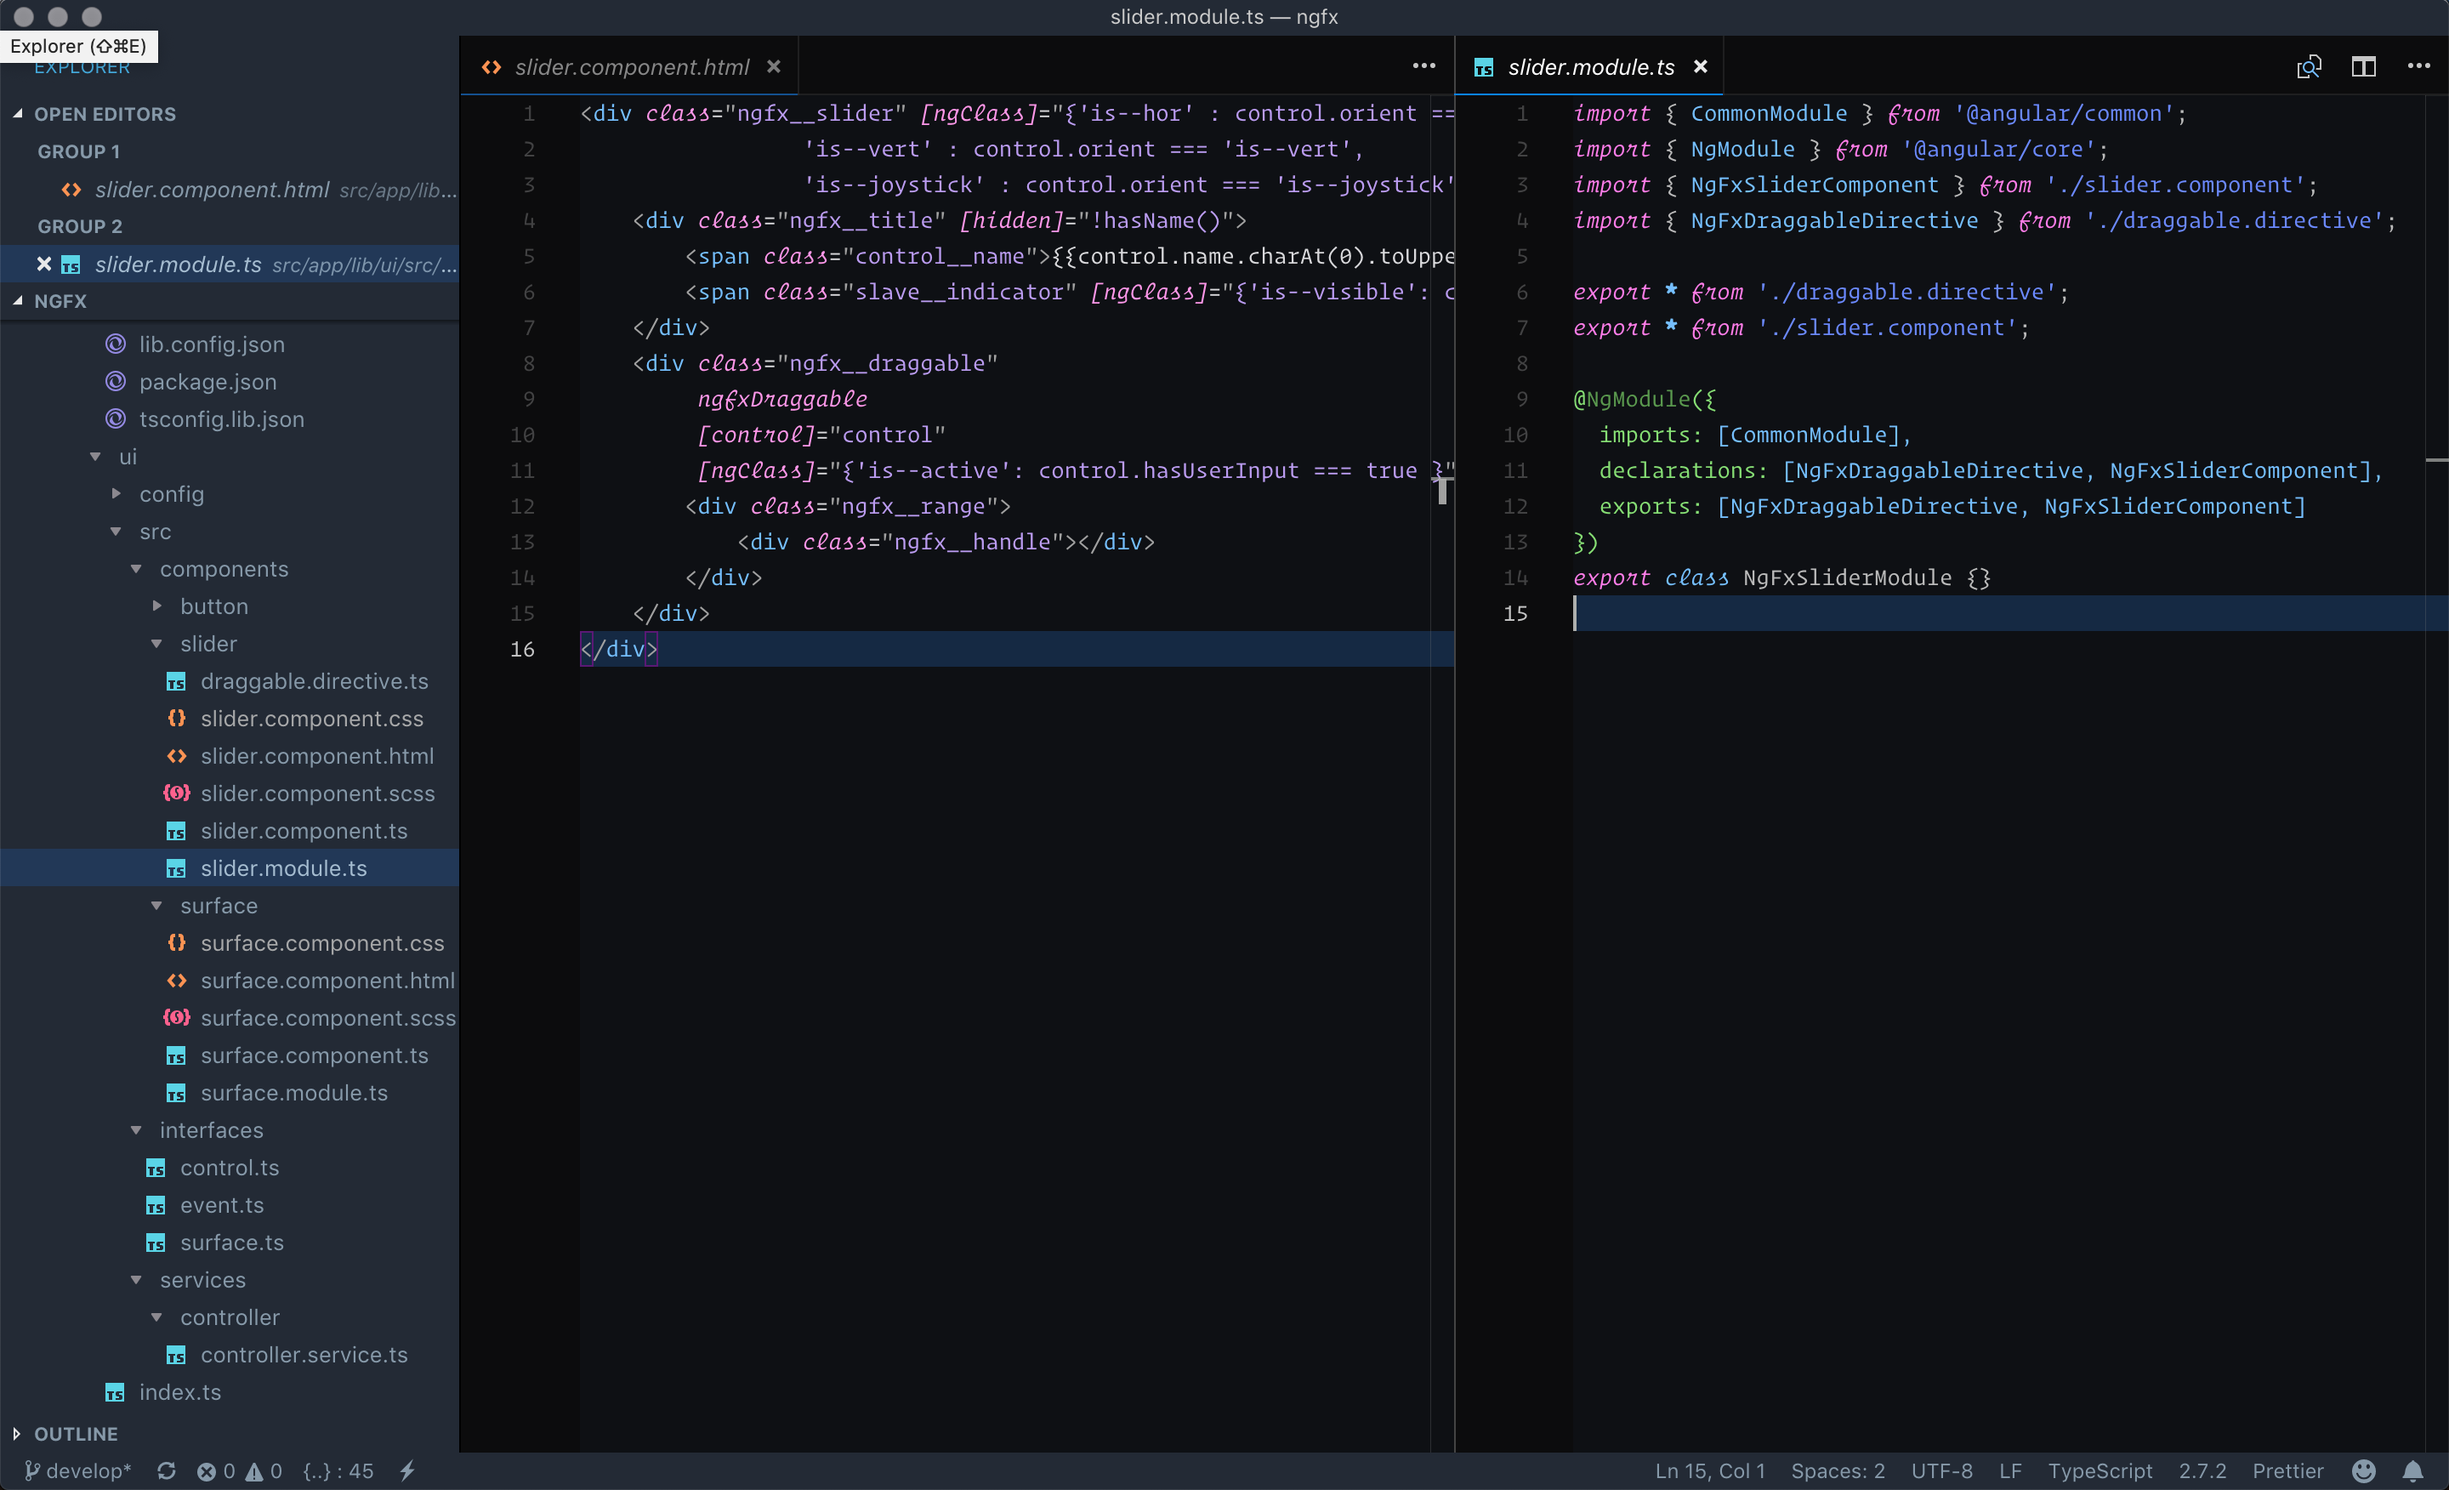
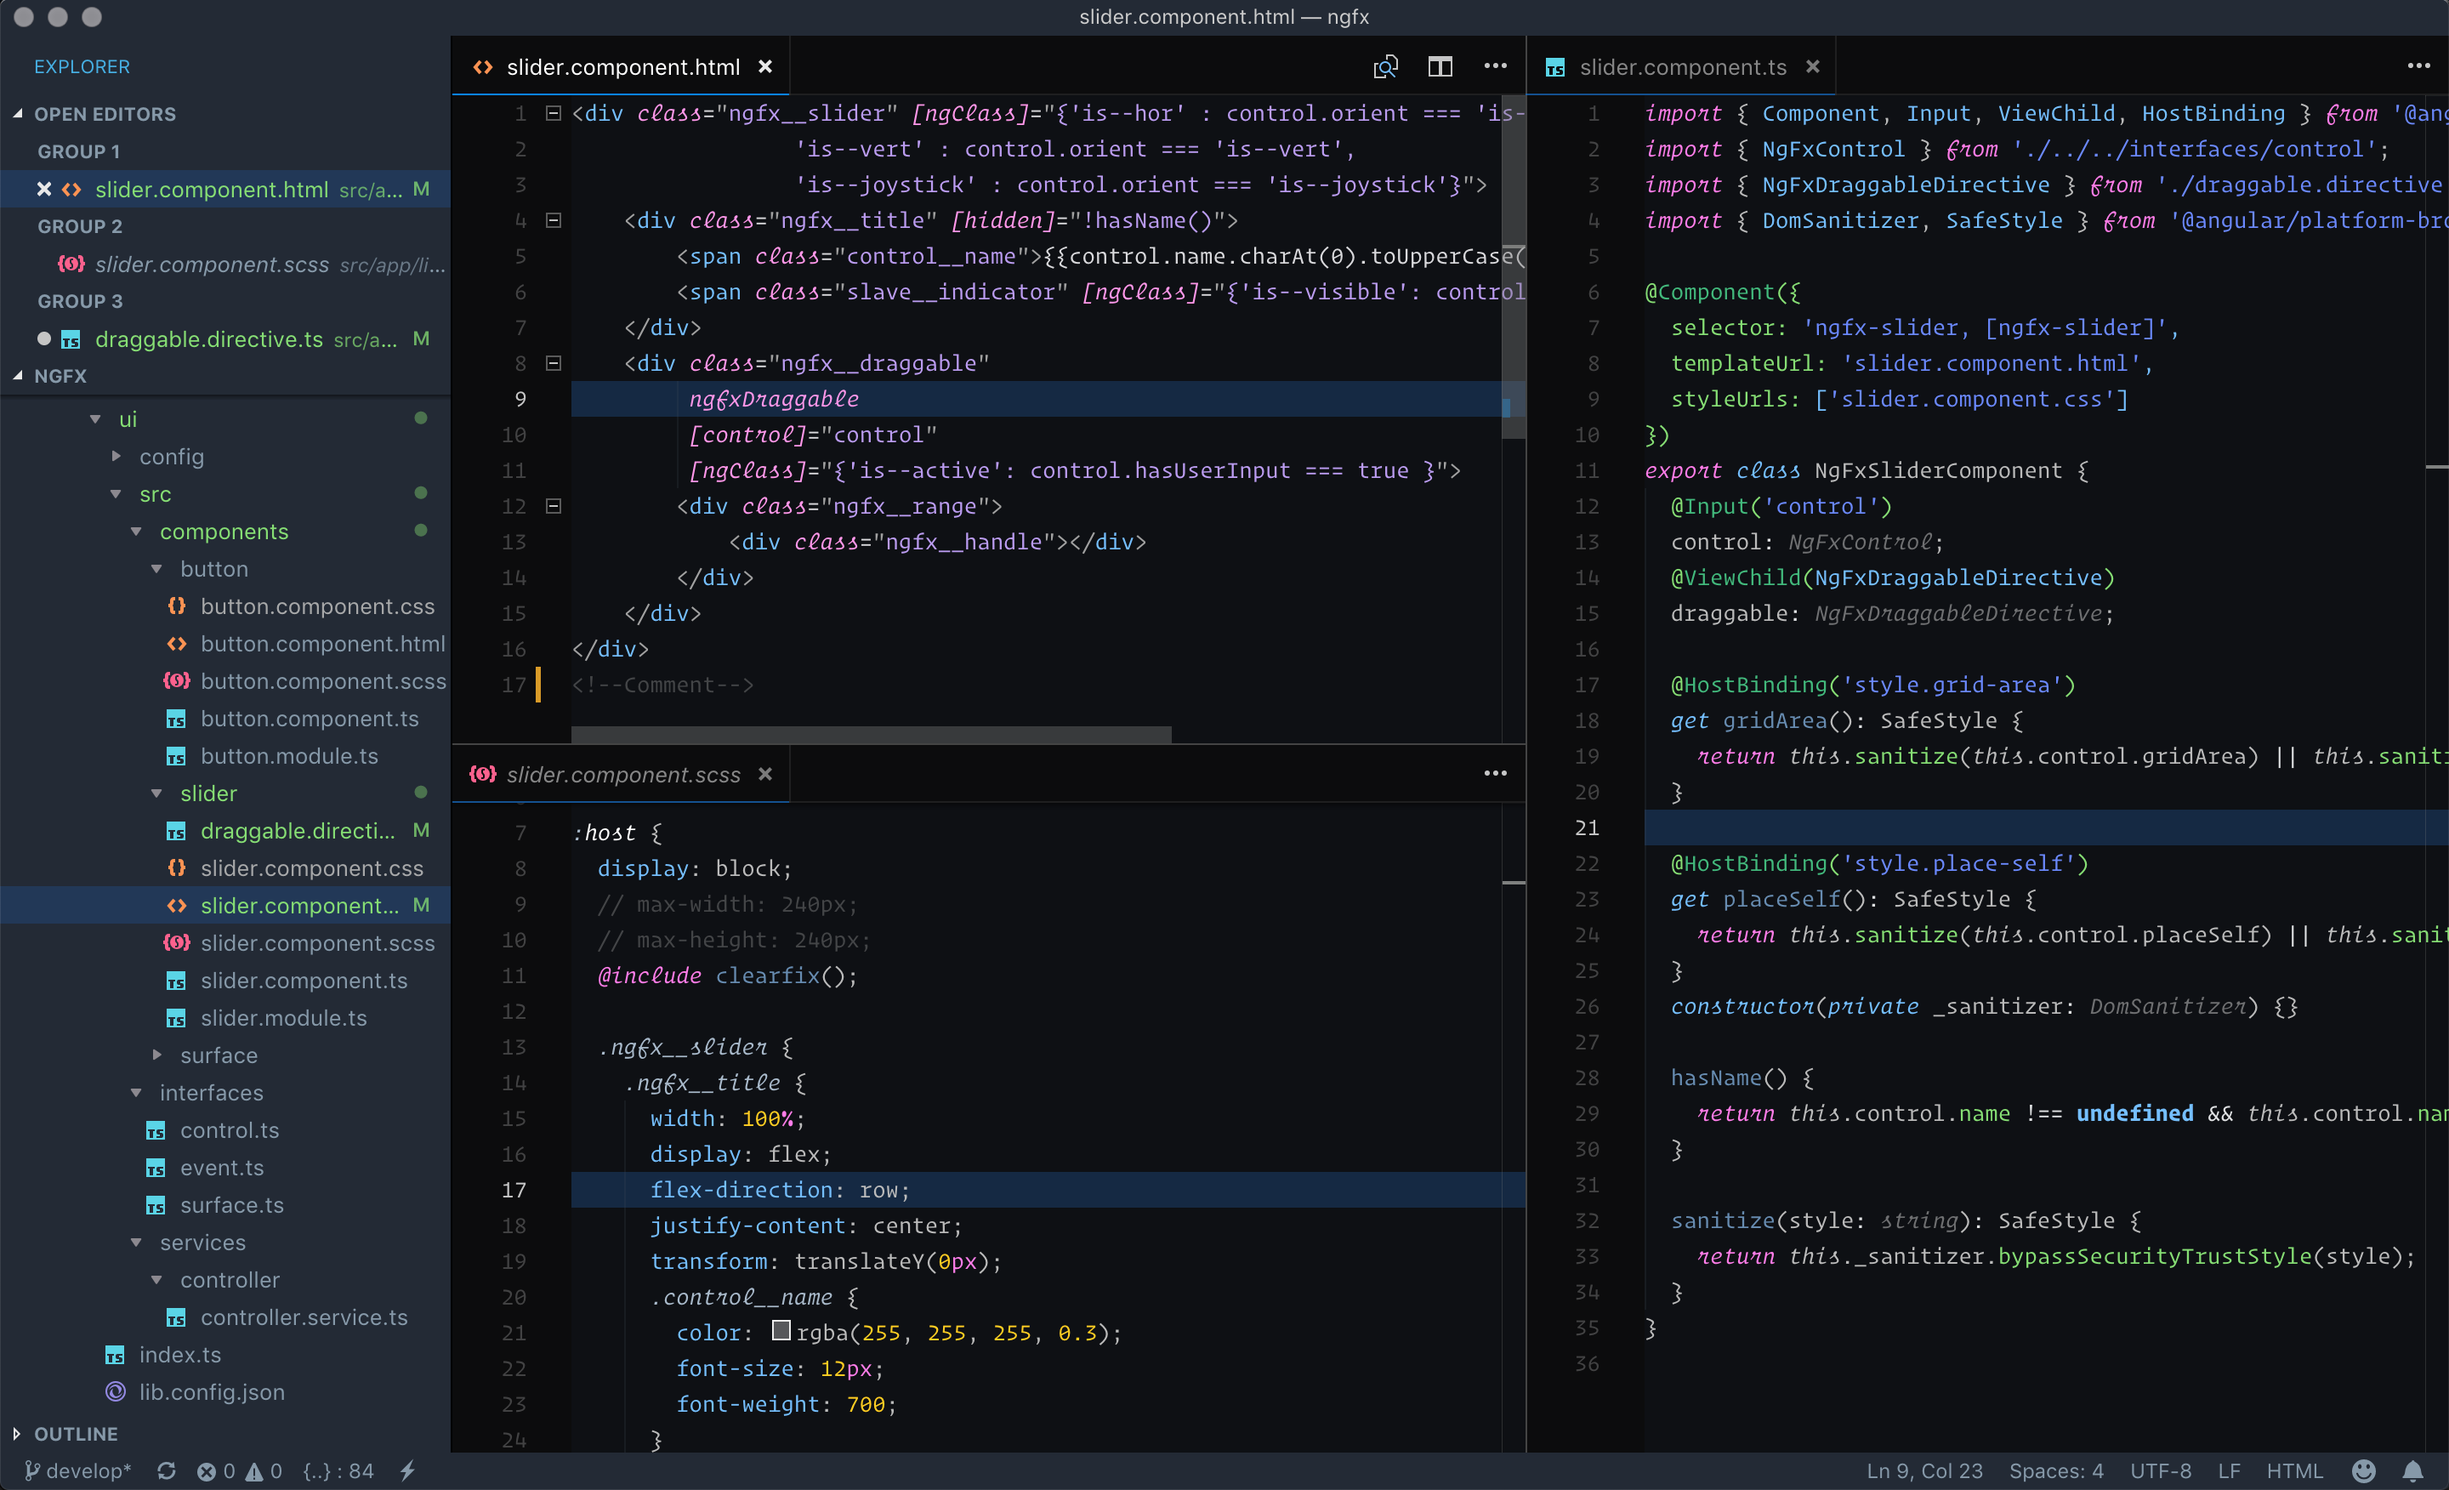
fix more issues with styling, version bump

diff --git a/CHANGELOG.md b/CHANGELOG.md
@@ -1,5 +1,10 @@
 # Changelog
 
+## 0.1.2
+- Updated screenshot
+- Unified comments
+- Fixed naming issues
+
 ## 0.1.1
 - Beautified more TypeScript
 - Improved color of Decorators
